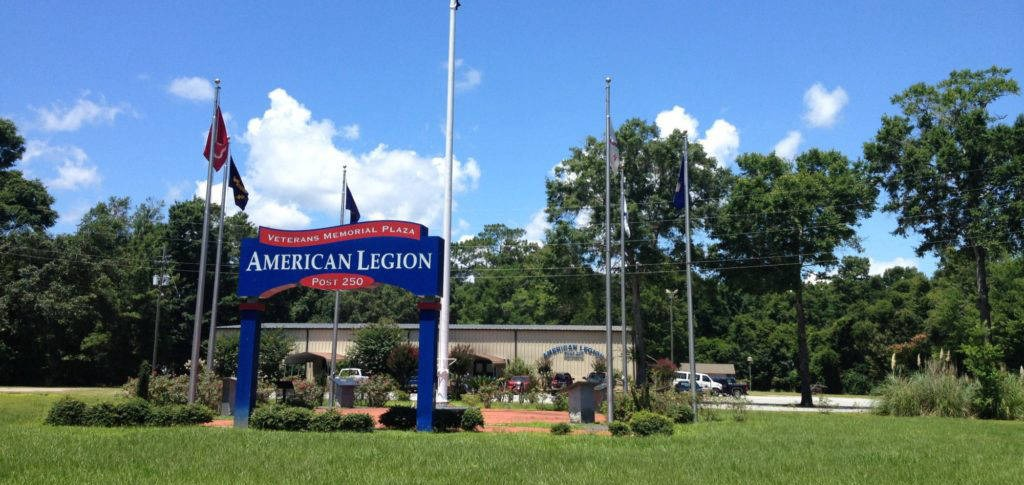
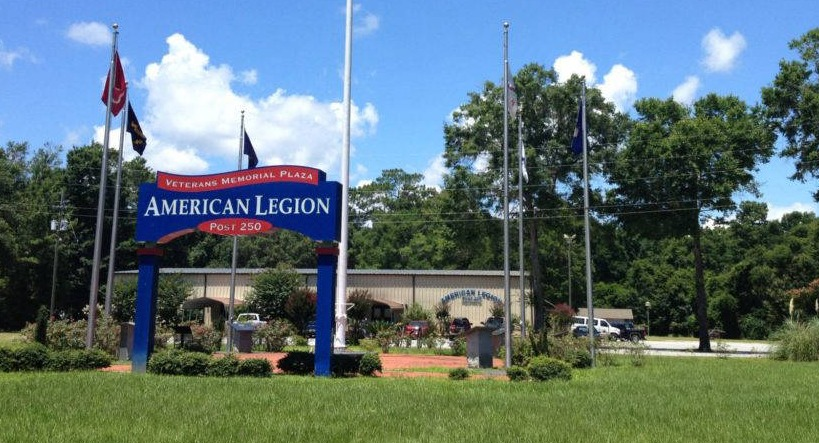
create github pages

diff --git a/index.html b/index.html
@@ -66,7 +66,7 @@ Fax (251) 973-1157">
 
 </section>
 
-<section class="mbr-section mbr-section-hero mbr-section-full mbr-parallax-background mbr-section-with-arrow mbr-after-navbar" id="header4-3" data-rv-view="132" style="background-image: url(assets/images/screenshot-2020-12-25-095347-1-1366x768.jpeg);">
+<section class="mbr-section mbr-section-hero mbr-section-full mbr-parallax-background mbr-section-with-arrow mbr-after-navbar" id="header4-3" data-rv-view="132" style="background-image: url(assets/images/cropped-img-0540-2-1024x554.jpeg);">
 
     <div class="mbr-overlay" style="opacity: 0.2; background-color: rgb(0, 0, 0);"></div>
 
